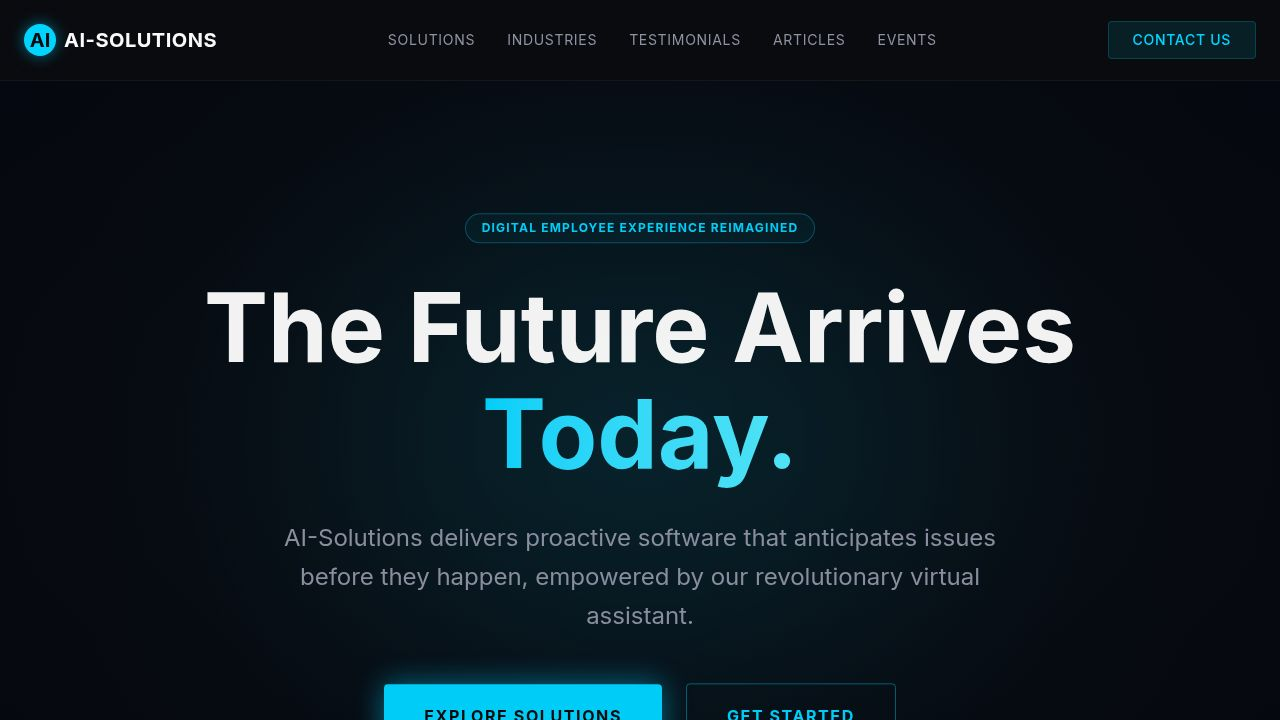
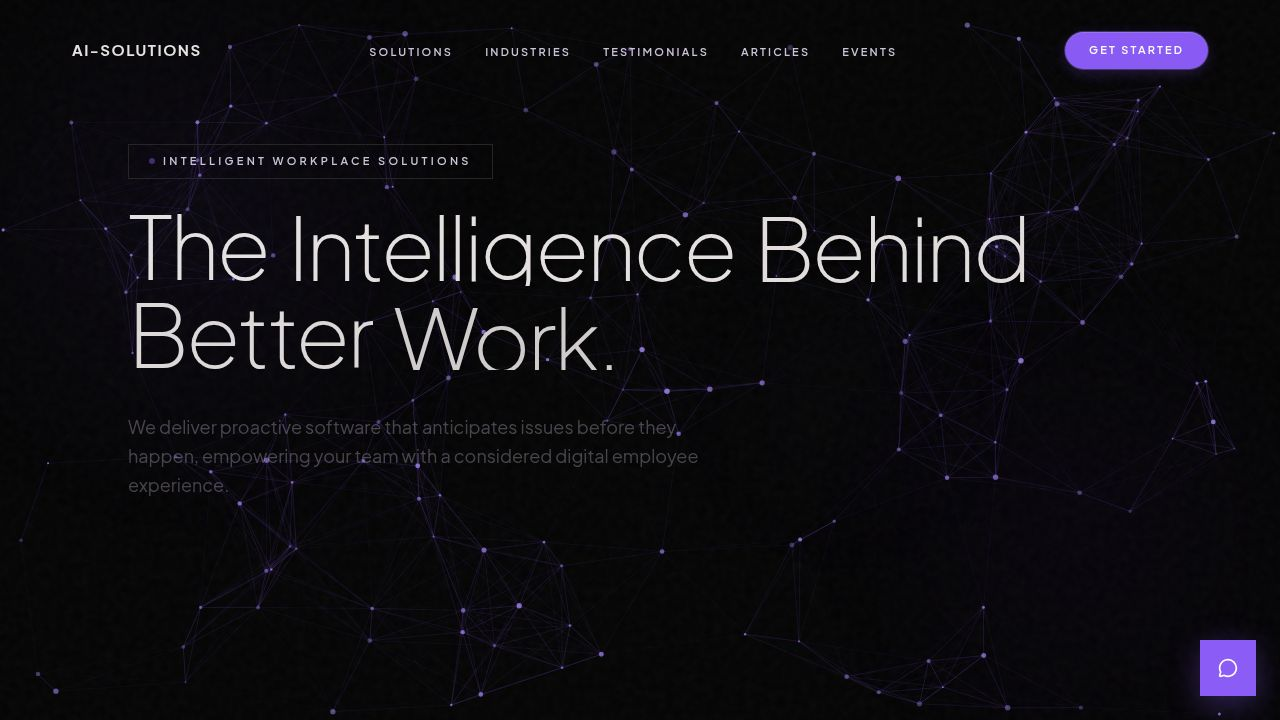
Add sample data to populate the website's database
Introduce a seed script that populates the database tables with initial data, and update package.json files to include necessary dependencies.

Replit-Commit-Author: Agent
Replit-Commit-Session-Id: 62252659-0203-4528-af5b-3a8935c4a815
Replit-Commit-Checkpoint-Type: full_checkpoint
Replit-Commit-Event-Id: 1060e73b-cf7b-4905-a73a-c95fcd6bcb51
Replit-Commit-Screenshot-Url: https://storage.googleapis.com/screenshot-production-us-central1/f9b3ec45-65ed-4942-9d8b-1f2ddb9b4d8f/62252659-0203-4528-af5b-3a8935c4a815/1Ab4o1G
Replit-Helium-Checkpoint-Created: true

diff --git a/scripts/src/seed.ts b/scripts/src/seed.ts
@@ -1,0 +1,363 @@
+import pg from "pg";
+import { drizzle } from "drizzle-orm/node-postgres";
+import { solutionsTable } from "../../lib/db/src/schema/solutions.ts";
+import { industriesTable } from "../../lib/db/src/schema/industries.ts";
+import { testimonialsTable } from "../../lib/db/src/schema/testimonials.ts";
+import { articlesTable } from "../../lib/db/src/schema/articles.ts";
+import { eventsTable } from "../../lib/db/src/schema/events.ts";
+import { inquiriesTable } from "../../lib/db/src/schema/inquiries.ts";
+
+const { Pool } = pg;
+
+const pool = new Pool({ connectionString: process.env.DATABASE_URL });
+const db = drizzle(pool);
+
+async function seed() {
+  console.log("Seeding database...");
+
+  await db.delete(inquiriesTable);
+  await db.delete(eventsTable);
+  await db.delete(articlesTable);
+  await db.delete(testimonialsTable);
+  await db.delete(industriesTable);
+  await db.delete(solutionsTable);
+
+  await db.insert(solutionsTable).values([
+    {
+      title: "Virtual Assistant Platform",
+      description:
+        "Deploy intelligent AI-powered virtual assistants that handle employee queries, automate routine tasks, and provide 24/7 support across your organisation.",
+      category: "Automation",
+      icon: "bot",
+      features: [
+        "Natural language understanding",
+        "Multi-channel deployment",
+        "Seamless HR system integration",
+        "Real-time analytics dashboard",
+        "Custom knowledge base builder",
+        "Multilingual support",
+      ],
+    },
+    {
+      title: "Digital Employee Experience",
+      description:
+        "Transform how your workforce interacts with enterprise tools by unifying fragmented systems into a single, intelligent digital workplace hub.",
+      category: "Workplace",
+      icon: "layout-dashboard",
+      features: [
+        "Unified employee portal",
+        "Personalised onboarding flows",
+        "Smart search across all systems",
+        "Proactive notifications",
+        "Self-service request management",
+        "Sentiment analysis",
+      ],
+    },
+    {
+      title: "Predictive IT Operations",
+      description:
+        "Anticipate and resolve IT issues before they impact productivity using machine learning models trained on your infrastructure data.",
+      category: "IT Operations",
+      icon: "activity",
+      features: [
+        "Anomaly detection",
+        "Automated incident routing",
+        "Predictive capacity planning",
+        "Root cause analysis",
+        "SLA monitoring",
+        "Integration with ServiceNow & Jira",
+      ],
+    },
+    {
+      title: "Knowledge Management AI",
+      description:
+        "Surface the right information at the right time. Our AI curates, indexes and delivers institutional knowledge directly within employee workflows.",
+      category: "Knowledge",
+      icon: "book-open",
+      features: [
+        "Automatic content tagging",
+        "Expertise location",
+        "Gap analysis reporting",
+        "Version-controlled knowledge base",
+        "Search intent understanding",
+        "SharePoint & Confluence connectors",
+      ],
+    },
+    {
+      title: "Workforce Analytics Suite",
+      description:
+        "Gain deep visibility into workforce trends, engagement levels, and productivity metrics to make data-driven HR and operational decisions.",
+      category: "Analytics",
+      icon: "bar-chart-2",
+      features: [
+        "Real-time engagement tracking",
+        "Attrition risk scoring",
+        "Custom KPI dashboards",
+        "Automated executive reports",
+        "Benchmarking against industry peers",
+        "GDPR-compliant data handling",
+      ],
+    },
+    {
+      title: "Conversational Service Desk",
+      description:
+        "Replace traditional ticketing with an AI-driven conversational service desk that resolves issues instantly and escalates intelligently.",
+      category: "Service Desk",
+      icon: "headphones",
+      features: [
+        "Intent-based ticket deflection",
+        "Automated resolution workflows",
+        "Agent assist mode",
+        "CSAT measurement",
+        "Omnichannel support (chat, email, voice)",
+        "AI-powered triage",
+      ],
+    },
+  ]);
+
+  await db.insert(industriesTable).values([
+    {
+      name: "National Health Service Trust",
+      sector: "Healthcare",
+      description:
+        "A large NHS Trust in the North East of England deployed our Virtual Assistant Platform to handle over 12,000 monthly staff queries, freeing clinical staff to focus on patient care.",
+      outcome:
+        "Reduced HR query resolution time by 74% and saved an estimated 4,200 staff hours per month.",
+      year: 2023,
+    },
+    {
+      name: "Global Financial Services Group",
+      sector: "Financial Services",
+      description:
+        "A FTSE 100 financial services group integrated our Digital Employee Experience platform across 28 countries, consolidating 14 legacy intranets into one intelligent portal.",
+      outcome:
+        "Employee satisfaction scores increased by 31% within six months of launch.",
+      year: 2022,
+    },
+    {
+      name: "UK Central Government Department",
+      sector: "Public Sector",
+      description:
+        "A UK central government department adopted our Predictive IT Operations solution to manage a hybrid infrastructure serving 45,000 civil servants.",
+      outcome:
+        "IT incidents down 58%; mean time to resolution improved from 4.2 hours to under 40 minutes.",
+      year: 2023,
+    },
+    {
+      name: "European Retail Conglomerate",
+      sector: "Retail",
+      description:
+        "A pan-European retailer with 80,000 frontline staff deployed our Conversational Service Desk to replace email-based IT support across 12 countries.",
+      outcome:
+        "First-contact resolution rate rose from 34% to 81%, cutting helpdesk costs by £2.1m annually.",
+      year: 2024,
+    },
+    {
+      name: "International Logistics Operator",
+      sector: "Logistics",
+      description:
+        "A global logistics company used our Workforce Analytics Suite to monitor engagement across distributed teams spanning six continents.",
+      outcome:
+        "Attrition reduced by 22% in the first year, saving £3.8m in recruitment and training costs.",
+      year: 2024,
+    },
+  ]);
+
+  await db.insert(testimonialsTable).values([
+    {
+      clientName: "Sarah Mitchell",
+      company: "NorthEast NHS Trust",
+      role: "Chief Digital Officer",
+      rating: 5,
+      message:
+        "AI-Solutions transformed how our staff access HR support. The virtual assistant handles thousands of queries a week without any human intervention — it's been a game changer for our overworked HR teams.",
+    },
+    {
+      clientName: "James Thornton",
+      company: "Meridian Financial Group",
+      role: "VP of Workplace Technology",
+      rating: 5,
+      message:
+        "Rolling out the Digital Employee Experience platform globally was seamless. The team at AI-Solutions understood our complexity and delivered on time. Our employees genuinely love using it.",
+    },
+    {
+      clientName: "Priya Nair",
+      company: "Department for Business & Trade",
+      role: "Head of IT Strategy",
+      rating: 5,
+      message:
+        "The predictive IT operations capability has fundamentally changed how we manage infrastructure. We're fixing problems before users even notice them — that's the standard we always aspired to.",
+    },
+    {
+      clientName: "Marco Delgado",
+      company: "EuroRetail Holdings",
+      role: "Group IT Director",
+      rating: 4,
+      message:
+        "Implementation was fast and the ROI was clear within three months. Our service desk agents now handle only the complex cases — everything routine is handled automatically. Highly recommended.",
+    },
+    {
+      clientName: "Fiona Callahan",
+      company: "TransGlobe Logistics",
+      role: "Chief People Officer",
+      rating: 5,
+      message:
+        "The workforce analytics gave us insights we simply couldn't get before. We can now act on engagement signals early, which has meaningfully reduced attrition. The AI-Solutions team are true partners.",
+    },
+    {
+      clientName: "David Okafor",
+      company: "Beacon Insurance Group",
+      role: "Director of Digital Transformation",
+      rating: 4,
+      message:
+        "We evaluated four vendors and AI-Solutions stood out for their depth of understanding of the insurance sector. The knowledge management AI has made our compliance teams far more efficient.",
+    },
+  ]);
+
+  await db.insert(articlesTable).values([
+    {
+      title: "Why Proactive AI is the Future of the Digital Workplace",
+      summary:
+        "Reactive IT support is no longer enough. We explore how proactive AI systems are reshaping employee experience and why forward-thinking organisations are making the switch.",
+      content:
+        "For decades, enterprise IT operated on a simple principle: wait for something to break, then fix it. But as organisations grow more complex and employee expectations rise, that model is failing. In this article, we examine how AI-powered proactive monitoring and predictive service management are changing the game.\n\nThe cost of downtime has never been higher. A major incident affecting 10,000 employees for just one hour can cost hundreds of thousands of pounds in lost productivity. Yet most organisations still rely on reactive helpdesks that only spring into action once users raise tickets.\n\nProactive AI changes the equation by continuously monitoring signals across the infrastructure — from application performance to sentiment in support conversations — to identify issues before they escalate. At AI-Solutions, our Predictive IT Operations platform has helped clients reduce incidents by more than 50% within the first six months of deployment.\n\nBeyond cost savings, proactive AI delivers something even more valuable: trust. When employees know their tools will work reliably, they engage more deeply with digital systems and adopt new technologies faster. That virtuous cycle drives the digital transformation outcomes that CIOs are measured on.",
+      author: "Dr. Amara Osei",
+      publishedAt: new Date("2024-10-14"),
+      category: "Thought Leadership",
+    },
+    {
+      title: "AI-Solutions Recognised in Gartner's 2024 Digital Workplace Report",
+      summary:
+        "We are proud to announce that AI-Solutions has been named a notable vendor in Gartner's annual Digital Workplace Technologies report.",
+      content:
+        "AI-Solutions has been recognised by Gartner as a notable vendor in the 2024 Digital Workplace Technologies report, a milestone that reflects the progress we have made since our founding in Sunderland in 2019.\n\nGartner's report evaluates vendors across several dimensions including product capability, customer satisfaction, and market presence. Our inclusion reflects the growing adoption of our platform across healthcare, financial services, and the public sector.\n\n\"Being recognised by Gartner validates what our clients have told us for years,\" said CEO Callum Reid. \"Our technology genuinely changes how organisations support their people, and this recognition will help more buyers discover what we have built.\"\n\nWe believe this is just the beginning. With our upcoming launch of Workforce Analytics Suite v3 and expanded integrations with Microsoft 365 Copilot, we are continuing to invest heavily in the platform.",
+      author: "Callum Reid",
+      publishedAt: new Date("2024-09-03"),
+      category: "Company News",
+    },
+    {
+      title: "Five Signs Your Service Desk is Holding Back Your Business",
+      summary:
+        "If your helpdesk is still running on email and spreadsheets, you may be paying a higher price than you realise. Here are five warning signs — and what to do about them.",
+      content:
+        "Service desks are often treated as cost centres — necessary overheads rather than strategic assets. But the best-run organisations understand that fast, intelligent employee support is a competitive advantage. Here are five signs your current approach is falling short.\n\n1. Your first-contact resolution rate is below 60%. Industry benchmarks put best-in-class service desks at 80% or above. If your agents are constantly escalating, your knowledge base and automation are likely insufficient.\n\n2. Employees are bypassing the desk entirely. When workers email colleagues directly or post in Slack rather than raising a ticket, it signals a lack of trust in the system.\n\n3. You have no visibility into recurring issues. Without analytics, you can't spot patterns that, if fixed once, would eliminate dozens of repeat tickets.\n\n4. Onboarding takes more than two days. Modern conversational service desks can automate the majority of onboarding tasks — provisioning accounts, delivering equipment, answering FAQs — reducing new joiner friction dramatically.\n\n5. Your CSAT scores are flat or declining. If employees aren't satisfied with support, engagement and productivity will follow the same trajectory.\n\nThe good news: modern AI-driven service desks can address all five of these issues simultaneously.",
+      author: "Niamh Gallagher",
+      publishedAt: new Date("2024-07-22"),
+      category: "Insights",
+    },
+    {
+      title: "AI-Solutions Opens New Engineering Hub in Newcastle",
+      summary:
+        "We are expanding our R&D footprint with a second UK engineering hub in Newcastle upon Tyne, creating 45 new technology roles over the next 18 months.",
+      content:
+        "AI-Solutions is thrilled to announce the opening of a new engineering hub in Newcastle upon Tyne, our second UK location after our headquarters in Sunderland. The new office, located in the Stephenson Quarter, will focus on applied AI research and platform engineering.\n\nThe expansion reflects strong customer demand and forms part of our broader strategy to invest in the talent pipeline across the North East of England — one of the UK's most exciting emerging tech corridors.\n\nWe will hire 45 engineers, data scientists, and product designers over the next 18 months, with roles at all levels from graduate to principal. Job listings are now live on our careers page.\n\n\"The North East has extraordinary technical talent,\" said Chief Technology Officer Dr. Amara Osei. \"We are proud to be deepening our roots here while building world-class AI products that are used across Europe.\"",
+      author: "Communications Team",
+      publishedAt: new Date("2024-05-16"),
+      category: "Company News",
+    },
+    {
+      title: "Understanding the ROI of Employee Experience Technology",
+      summary:
+        "Calculating the return on investment for digital workplace platforms can be complex. This guide walks through the key metrics that matter and how to build a compelling business case.",
+      content:
+        "When organisations consider investing in employee experience technology, finance teams often ask the same question: how do we measure the return? Unlike a CRM or ERP where transactional outcomes are easier to quantify, workplace technology ROI is multidimensional.\n\nThe most straightforward metric is deflection rate — the proportion of service desk queries resolved without human agent involvement. Each deflected ticket has a measurable cost saving. If your average ticket costs £18 to resolve with an agent and you deflect 60% of 5,000 monthly tickets, that's £54,000 saved per month.\n\nBut the harder-to-measure benefits are often larger. Reduced attrition, faster onboarding, and improved engagement translate directly into business performance. Our clients consistently report that every 5% improvement in engagement correlates with a 3% increase in productivity scores.\n\nWe recommend building your business case around three horizons: immediate efficiency gains (0–6 months), adoption-driven engagement improvement (6–18 months), and strategic capability growth (18 months+). A phased model makes it easier to get buy-in and demonstrate early wins.",
+      author: "Dr. Amara Osei",
+      publishedAt: new Date("2024-03-08"),
+      category: "Insights",
+    },
+  ]);
+
+  await db.insert(eventsTable).values([
+    {
+      title: "Digital Workplace Summit 2025",
+      description:
+        "AI-Solutions hosts its flagship annual event bringing together CIOs, CHROs and digital workplace leaders from across Europe to explore the future of AI-powered work. Featuring keynotes, workshops, and live product demonstrations.",
+      date: "2025-09-18",
+      location: "The Sage Gateshead, UK",
+      type: "Conference",
+      isUpcoming: true,
+      photos: [],
+    },
+    {
+      title: "Public Sector AI Roundtable — London",
+      description:
+        "An invitation-only roundtable for senior technology and HR leaders from central and local government, exploring practical applications of AI in public sector employee experience.",
+      date: "2025-07-10",
+      location: "The Barbican, London, UK",
+      type: "Roundtable",
+      isUpcoming: true,
+      photos: [],
+    },
+    {
+      title: "HR Technology Expo 2024",
+      description:
+        "AI-Solutions exhibited at Europe's largest HR technology trade show, showcasing the latest enhancements to our Virtual Assistant Platform and Workforce Analytics Suite to over 12,000 attendees.",
+      date: "2024-11-06",
+      location: "RAI Amsterdam, Netherlands",
+      type: "Exhibition",
+      isUpcoming: false,
+      photos: [],
+    },
+    {
+      title: "Northeast Tech Festival 2024",
+      description:
+        "Our engineering and product teams participated in the Northeast Tech Festival, running sessions on responsible AI development and the practical realities of deploying large language models in enterprise environments.",
+      date: "2024-06-20",
+      location: "Sunderland Software Centre, UK",
+      type: "Festival",
+      isUpcoming: false,
+      photos: [],
+    },
+    {
+      title: "Customer Success Day — Manchester",
+      description:
+        "An exclusive half-day event for AI-Solutions customers in the North West, featuring product roadmap updates, customer case study presentations, and networking with our leadership team.",
+      date: "2024-03-14",
+      location: "Manchester Central, UK",
+      type: "Customer Event",
+      isUpcoming: false,
+      photos: [],
+    },
+  ]);
+
+  await db.insert(inquiriesTable).values([
+    {
+      name: "Helen Foster",
+      email: "[email redacted]",
+      phone: "[phone redacted]",
+      companyName: "Meridian Health NHS Trust",
+      country: "United Kingdom",
+      jobTitle: "Director of Digital",
+      jobDetails:
+        "We are looking to replace our existing helpdesk solution with an AI-driven platform. We have approximately 6,000 staff across three hospital sites.",
+    },
+    {
+      name: "Thomas Berg",
+      email: "[email redacted]",
+      phone: "[phone redacted]",
+      companyName: "NovaLife Insurance AG",
+      country: "Germany",
+      jobTitle: "Head of HR Technology",
+      jobDetails:
+        "Interested in your Digital Employee Experience platform for a pan-European rollout across 18 countries. Would like to arrange a product demonstration.",
+    },
+    {
+      name: "Aisha Kamara",
+      email: "[email redacted]",
+      phone: "[phone redacted]",
+      companyName: "Department for Business & Trade",
+      country: "United Kingdom",
+      jobTitle: "Deputy Director, Digital Workplace",
+      jobDetails:
+        "Following your session at the Public Sector AI Roundtable, we would like to explore a pilot of the Predictive IT Operations solution.",
+    },
+  ]);
+
+  console.log("Seed complete.");
+  await pool.end();
+}
+
+seed().catch((err) => {
+  console.error(err);
+  process.exit(1);
+});